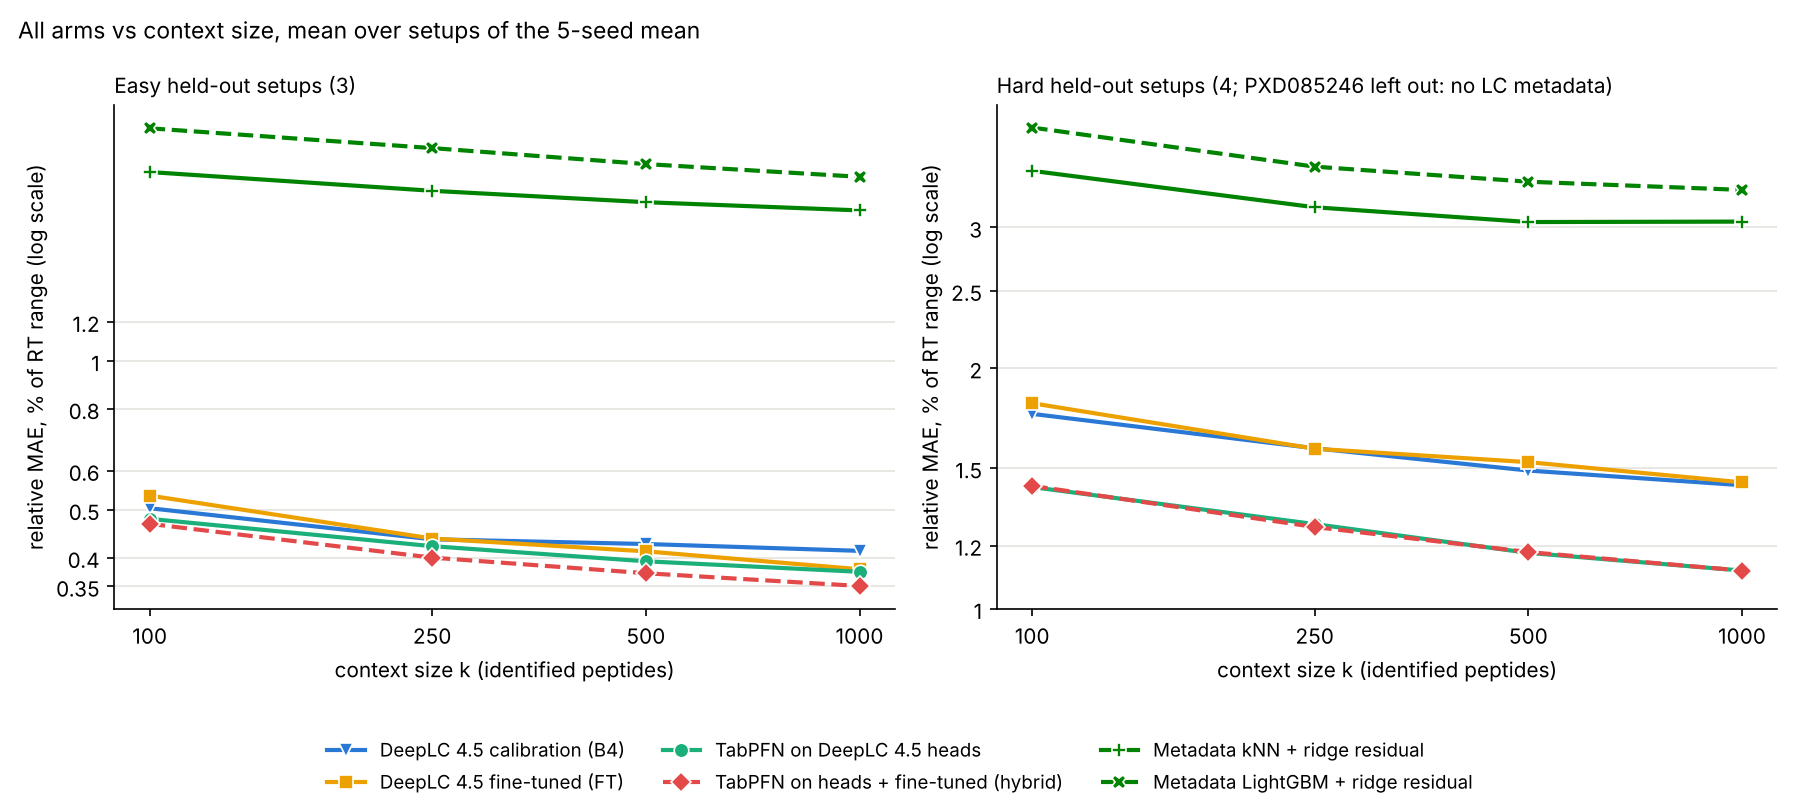
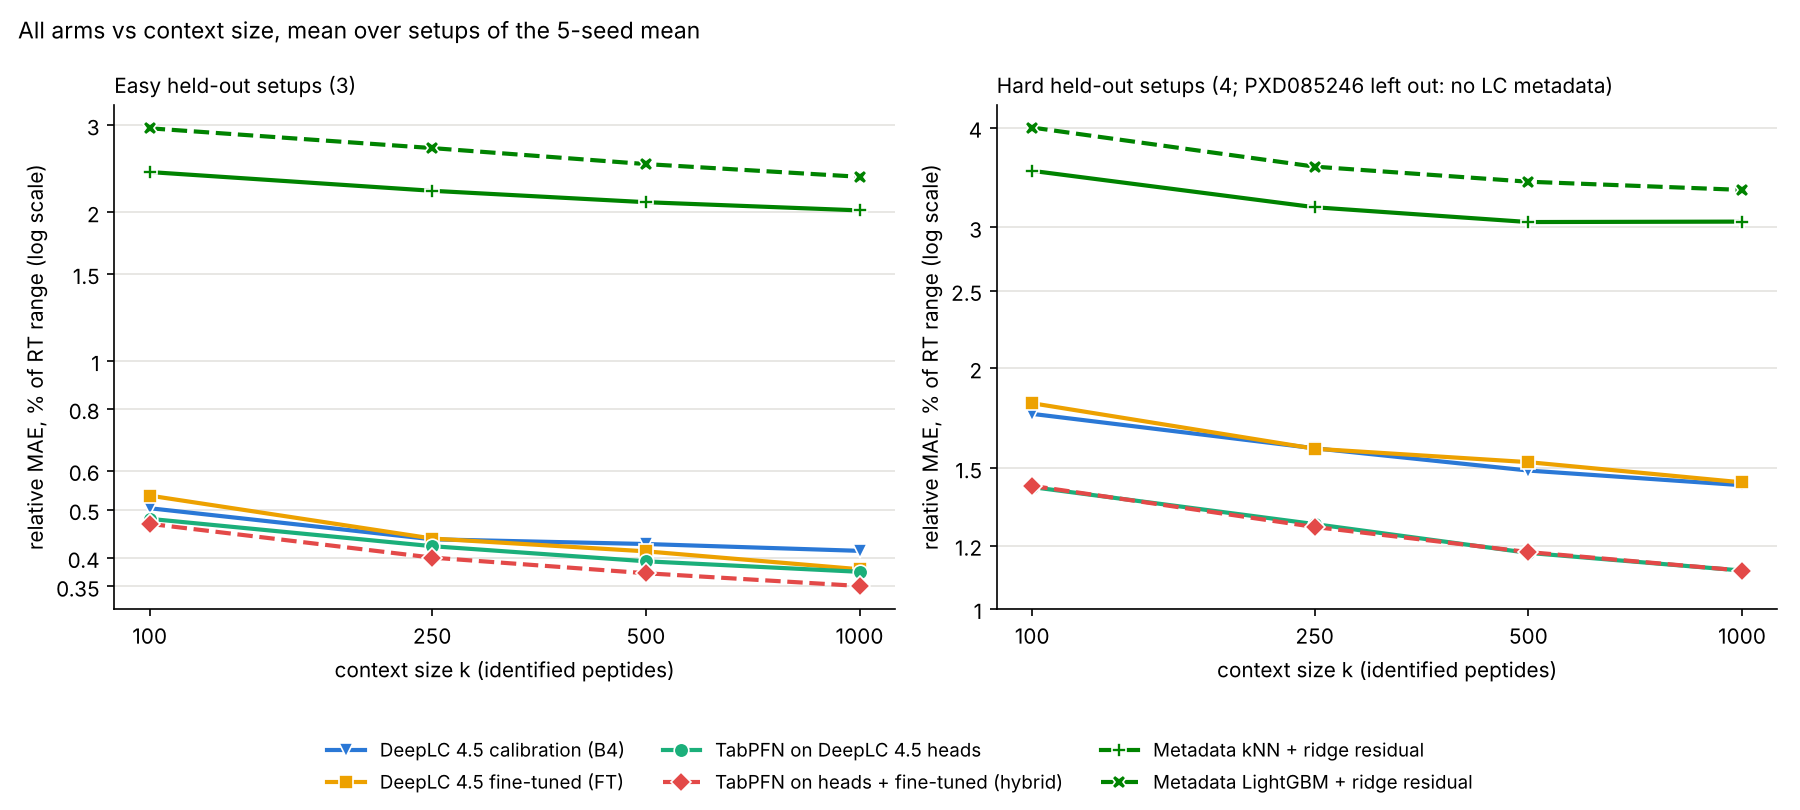
Metadata study: final interval table from the complete rerun
Claude-Session: https://claude.ai/code/session_016FDVAPjGTSmAxuUdAPHviE

diff --git a/results/metadata_study/report.md b/results/metadata_study/report.md
@@ -280,7 +280,43 @@ SPEARMAN_TABLE
 
 ## Uncertainty: TabPFN's 90% intervals vs the fine-tuned model's residual spread
 
-INTERVAL_TABLE
+Coverage on the query peptides / median width, both as % of the RT range;
+mean over setups and 5 seeds. TabPFN's interval is its own 5% to 95%
+predictive quantiles. FT has no interval of its own, so it gets a
+split-conformal one from its 15% early-stopping part (context only). FT
+spread is the central 90% range of FT's actual query residuals: an oracle
+reference for how wide a constant interval around FT must be, not a method.
+
+| group | arm | k = 100 | 250 | 500 | 1000 |
+|---|---|---|---|---|---|
+| easy | T1_d45 | 0.893 / 1.48 | 0.905 / 1.30 | 0.912 / 1.22 | 0.908 / 1.12 |
+| easy | T1_d45_B4 | 0.897 / 1.46 | 0.910 / 1.24 | 0.915 / 1.17 | 0.910 / 1.08 |
+| easy | FT, conformal | 0.892 / 2.35 | 0.914 / 2.06 | 0.896 / 1.72 | 0.895 / 1.39 |
+| easy | FT spread (oracle) | 0.900 / 2.10 | 0.900 / 1.68 | 0.900 / 1.56 | 0.900 / 1.41 |
+| easy | B4 window | 0.892 / 1.95 | 0.904 / 1.74 | 0.909 / 1.72 | 0.905 / 1.61 |
+| hard | T1_d45 | 0.886 / 3.75 | 0.889 / 3.27 | 0.890 / 3.09 | 0.888 / 2.85 |
+| hard | T1_d45_B4 | 0.881 / 3.71 | 0.889 / 3.25 | 0.891 / 3.06 | 0.886 / 2.84 |
+| hard | FT, conformal | 0.931 / 12.03 | 0.917 / 8.54 | 0.897 / 7.23 | 0.893 / 6.30 |
+| hard | FT spread (oracle) | 0.900 / 8.33 | 0.900 / 7.05 | 0.900 / 7.09 | 0.900 / 6.30 |
+| hard | B4 window | 0.898 / 7.28 | 0.899 / 6.10 | 0.894 / 5.36 | 0.898 / 5.18 |
+
+- TabPFN's 90% intervals are close to nominal: 0.89 to 0.92 on easy setups and
+  0.88 to 0.89 on hard setups (slightly under; per setup 0.88 to 0.92 on
+  average, single runs 0.81 to 0.96).
+- They are much narrower than the fine-tuned model's residual spread: median
+  width 1.1 to 1.5% vs 1.4 to 2.1% of the RT range on easy setups (0.70 to
+  0.79x), and 2.9 to 3.8% vs 6.3 to 8.3% on hard setups (0.44 to 0.46x).
+  TabPFN's width varies per peptide, so its mean width is larger than its
+  median (1.5 to 1.8% easy, 4.0 to 5.4% hard), but still below FT's spread.
+- The gap is largest where FT's residuals have heavy tails (PXD084949, HLA
+  class I: FT spread 16.6% vs TabPFN median width 2.7% at the same coverage
+  level, 0.89).
+- FT's conformal interval, built from only 15 to 150 validation peptides,
+  overcovers at small k on hard setups (0.93) and is up to 1.4x wider than
+  the oracle spread.
+- Data: `IV_*.csv` in `results/finetune/parts/` (per run); the reruns
+  reproduce the stored predictions (TabPFN identical over 320 runs, FT within
+  1.1e-6 of the RT range).
 
 ## Timing and compute
 

diff --git a/results/metadata_study/tables.md b/results/metadata_study/tables.md
@@ -218,18 +218,18 @@
 |                       | 100           | 250          | 500          | 1000         |
 |:----------------------|:--------------|:-------------|:-------------|:-------------|
 | ('easy', 'B4 window') | 0.892 / 1.95  | 0.904 / 1.74 | 0.909 / 1.72 | 0.905 / 1.61 |
-| ('easy', 'FT')        | 0.895 / 2.48  | 0.932 / 2.21 | 0.907 / 1.81 | 0.902 / 1.49 |
-| ('easy', 'FT_spread') | 0.900 / 2.06  | 0.900 / 1.64 | 0.900 / 1.55 | 0.900 / 1.45 |
-| ('easy', 'T1_d45')    | 0.884 / 1.45  | 0.904 / 1.28 | 0.911 / 1.19 | 0.905 / 1.14 |
-| ('easy', 'T1_d45_B4') | 0.889 / 1.42  | 0.909 / 1.21 | 0.914 / 1.15 | 0.910 / 1.11 |
+| ('easy', 'FT')        | 0.892 / 2.35  | 0.914 / 2.06 | 0.896 / 1.72 | 0.895 / 1.39 |
+| ('easy', 'FT_spread') | 0.900 / 2.10  | 0.900 / 1.68 | 0.900 / 1.56 | 0.900 / 1.41 |
+| ('easy', 'T1_d45')    | 0.893 / 1.48  | 0.905 / 1.30 | 0.912 / 1.22 | 0.908 / 1.12 |
+| ('easy', 'T1_d45_B4') | 0.897 / 1.46  | 0.910 / 1.24 | 0.915 / 1.17 | 0.910 / 1.08 |
 | ('hard', 'B4 window') | 0.898 / 7.28  | 0.899 / 6.10 | 0.894 / 5.36 | 0.898 / 5.18 |
-| ('hard', 'FT')        | 0.896 / 10.96 | 0.877 / 6.41 | 0.879 / 6.17 | 0.892 / 5.87 |
-| ('hard', 'FT_spread') | 0.900 / 9.97  | 0.900 / 6.56 | 0.900 / 6.43 | 0.900 / 6.02 |
-| ('hard', 'T1_d45')    | 0.898 / 5.31  | 0.895 / 5.30 | 0.894 / 5.11 | 0.904 / 4.80 |
-| ('hard', 'T1_d45_B4') | 0.888 / 5.32  | 0.896 / 5.34 | 0.898 / 5.08 | 0.904 / 4.84 |
+| ('hard', 'FT')        | 0.931 / 12.03 | 0.917 / 8.54 | 0.897 / 7.23 | 0.893 / 6.30 |
+| ('hard', 'FT_spread') | 0.900 / 8.33  | 0.900 / 7.05 | 0.900 / 7.09 | 0.900 / 6.30 |
+| ('hard', 'T1_d45')    | 0.886 / 3.75  | 0.889 / 3.27 | 0.890 / 3.09 | 0.888 / 2.85 |
+| ('hard', 'T1_d45_B4') | 0.881 / 3.71  | 0.889 / 3.25 | 0.891 / 3.06 | 0.886 / 2.84 |
 
-FT rerun vs the saved predictions: max |difference| = 3.04e-07 of the RT range.
-TabPFN rerun vs stored rel. MAE: max |difference| = 0.00e+00 over 94 runs.
+FT rerun vs the saved predictions: max |difference| = 1.12e-06 of the RT range.
+TabPFN rerun vs stored rel. MAE: max |difference| = 0.00e+00 over 320 runs.
 
 ## Headroom (relative MAE %, seed-0 queries)
 
